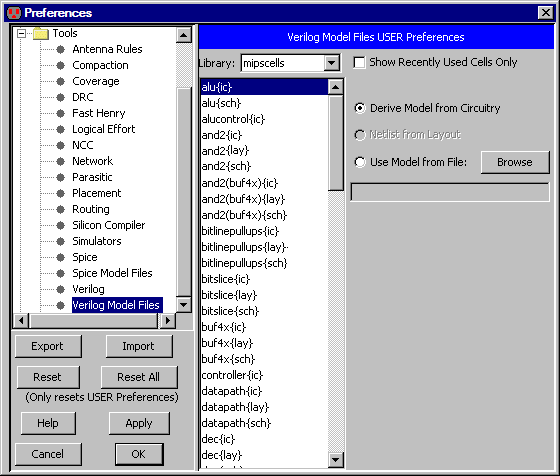
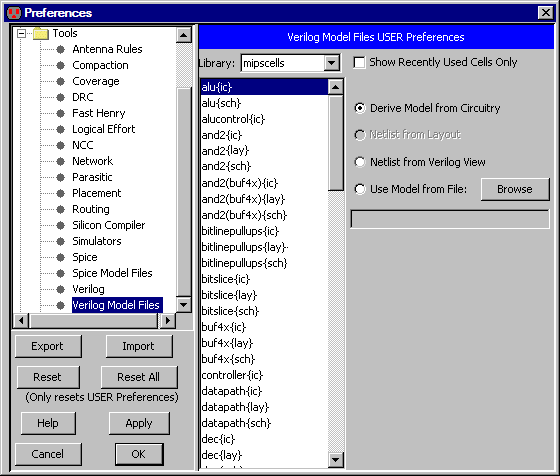
Apply maven changes to the trunk
git-svn-id: https://svn.java.net/svn/electric~svn/trunk@12282 b64ed6c1-75a8-e629-b1da-d0dae74a743a

Changed region(s): [[0.6071, 0.3235, 1.0, 0.4412], [0.6071, 0.4412, 0.6375, 0.4706]]

diff --git a/srcj/com/sun/electric/tool/user/help/helphtml/chap09-04-03.html b/srcj/com/sun/electric/tool/user/help/helphtml/chap09-04-03.html
@@ -210,12 +210,20 @@ The following variables are available to use in the program name and arguments:
 <!-- NEED 5in -->
 Another set of controls can be used is the Spice Model Files Preferences
 (in menu <B>File / Preferences...</B>, "Tools" section, "Spice Model Files" tab).
-This dialog allows you to specify a disk file of Spice cards that will be used to describe any cell.
-Instead of the cell subcircuit, the specified disk file is "included" in the deck.
+This dialog allows you to control how each cell is represented in the Spice deck.
 <P>
 <CENTER><IMG SRC="fig09-11.png" ALT="Figure 9.11"></CENTER>
 <P>
-The same function can be done by using the <B>Set Netlist Cell From File</B> command
+The default is to construct the Spice from the actual cell contents.
+If there is an equivalent layout cell, it can be used (instead of the schematic).
+You can also choose to use the "Verilog" view, which contains Verilog text for that cell
+(it will be converted to Spice).
+Finally, you can request that an external model file be used.
+Note that in the case of external model files,
+the specified disk file is referenced by adding "include" lines in the deck.
+These choices allow you to create your own definitions in situations where the derived Spice would be too complex or otherwise incorrect.
+<P>
+Another way to change the Spice representation of a cell is to use the <B>Set Netlist Cell From File</B> command
 (in menu <B>Tools / Simulation (Spice)</B>).
 This places a piece of text in the cell, which you must edit to be the path to a disk file.
 That file will then be included in the Spice deck instead of the actual subcircuit of the cell.

diff --git a/srcj/com/sun/electric/tool/user/help/helphtml/chap09-04-02.html b/srcj/com/sun/electric/tool/user/help/helphtml/chap09-04-02.html
@@ -79,12 +79,15 @@ This preserves the hierarchical structure of the circuit, but creates duplicate 
 <P>
 A final set of Verilog controls can be found in the Verilog Model Files Preferences
 (in menu <B>File / Preferences...</B>, "Tools" section, "Verilog Model Files" tab).
-The Verilog Model Files Preferences dialog lets you attach disk files with Verilog code to any cell in the library.
+The Verilog Model Files Preferences dialog lets you control how each cell is represented in the Verilog.
 <P>
 <!-- NEED 5in -->
 <TABLE><TR><TD VALIGN=TOP>
-Once attached, the generated Verilog will use the contents of that file instead of examining the cell contents.
-This allows you to create your own definitions in situations where the derived Verilog would be too complex or otherwise incorrect.
+The default is to contstruct the Verilog from the actual cell contents.
+If there is an equivalent layout cell, it can be used (instead of the schematic).
+You can also choose to use the "Verilog" view, which contains Verilog text for that cell.
+Finally, you can request that an external model file be used.
+These choices allow you to create your own definitions in situations where the derived Verilog would be too complex or otherwise incorrect.
 </TD><TD><CENTER><IMG SRC="fig09-39.png" ALT="Figure 9.39"></CENTER></TD></TR></TABLE>
 
 <!-- TRAILER -->

diff --git a/srcj/com/sun/electric/tool/user/help/helphtml/chap04-11.html b/srcj/com/sun/electric/tool/user/help/helphtml/chap04-11.html
@@ -89,9 +89,14 @@ To see the individual signal that make up a bus, double-click the bus signal
 (and double-click it again to remove the individual signals).
 </TD><TD><CENTER><IMG SRC="fig04-25.png" ALT="Figure 4.25"></CENTER></TD></TR></TABLE>
 <P>
-You can add signals to a panel by double-clicking on the name in the "SIGNALS" area.
-The signals will be added to the current panel.
+You can see new signals by double-clicking on the name in the "SIGNALS" area.
+For digital simulations, a new panel will be created for that signal;
+for analog simulations, the signal will be added to the current panel.
 You can also add signals to a panel by dragging the text onto the panel.
+Signal names in panels can be renamed by double-clicking on their text
+(this does not rename the actual signal in Electric:
+it merely assigns an "alias" name to the signal in the waveform window,
+which is useful for documentation).
 <P>
 If the layout or schematics cell that produced the simulation is being displayed in another window,
 and a network is selected in that window,

diff --git a/srcj/com/sun/electric/tool/user/help/helphtml/chap01-05.html b/srcj/com/sun/electric/tool/user/help/helphtml/chap01-05.html
@@ -1,7 +1,5 @@
 <!-- HEADER 1-5: Plug-Ins -->
 
-<!-- COMMAND Help/User's Manual (Russian)... -->
-
 Electric plug-ins are additional pieces of code that can be downloaded separately
 to enhance the system's functionality.
 Currently, these plug-ins are available:
@@ -47,12 +45,6 @@ The Java Media Framework is available from <A HREF="http://www.sun.com">Sun Micr
 (this is not a plugin: it is an enhancement to your Java installation).
 The animation code is available from <A HREF="http://www.staticfreesoft.com">Static Free Software</A> at
 <A HREF="http://www.staticfreesoft.com/electricJMF-8.11.jar">www.staticfreesoft.com/electricJMF-8.11.jar</A>.
-</LI>
-
-<LI><B>Russian User's Manual</B>
-An earlier version of the user's manual (8.02) has been translated into Russian.
-This manual is available from <A HREF="http://www.staticfreesoft.com">Static Free Software</A> at
-<A HREF="http://www.staticfreesoft.com/electricRussianManual-8.11.jar">www.staticfreesoft.com/electricRussianManual-8.11.jar</A>.
 </LI>
 
 </UL>

diff --git a/srcj/com/sun/electric/tool/user/help/helphtml/chap06-08-04.html b/srcj/com/sun/electric/tool/user/help/helphtml/chap06-08-04.html
@@ -24,6 +24,9 @@ this field.
 You can also use the <B>Increase All Text Size</B>
 and <B>Decrease All Text Size</B> commands (in menu <B>Edit / Text</B>)
 to change this value, and alter the size of all displayed text.
+<P>
+The "Show temporary node names" checkbox requests that unnamed nodes
+show their temporary names (for more on node names, see <A HREF="chap02-04-02.html#chap02-04-02">Section 2-4-2</A>).
 </TD><TD><CENTER><IMG SRC="fig06-08.png" ALT="Figure 6.8"></CENTER></TD></TR></TABLE>
 <!-- NEED 4in -->
 <P>

diff --git a/srcj/com/sun/electric/tool/user/help/ManualViewer.java b/srcj/com/sun/electric/tool/user/help/ManualViewer.java
@@ -144,7 +144,7 @@ public class ManualViewer extends EModelessDialog
 		boolean newAtLevel;
 	};
 
-	private Class htmlBaseClass;
+	private Class<?> htmlBaseClass;
 	private String htmlDirectory;
 	private JScrollPane rightHalf;
 	private JEditorPane editorPane;
@@ -162,7 +162,7 @@ public class ManualViewer extends EModelessDialog
 	private List<Object> history = new ArrayList<Object>();
 	private static ManualViewer theManual = null;
 
-    private static void setManualViewer(String preference, Class baseClass, String htmlDir, boolean setVisible)
+    private static void setManualViewer(String preference, Class<?> baseClass, String htmlDir, boolean setVisible)
     {
         if (theManual == null)
         {
@@ -350,7 +350,7 @@ public class ManualViewer extends EModelessDialog
 	 * Create a new user's manual dialog.
 	 * @param parent
 	 */
-	private ManualViewer(Frame parent, String preference, Class baseClass, String htmlDir) throws Exception
+	private ManualViewer(Frame parent, String preference, Class<?> baseClass, String htmlDir) throws Exception
 	{
 		super(parent);
 		htmlBaseClass = baseClass;
@@ -473,11 +473,11 @@ public class ManualViewer extends EModelessDialog
 			topPath = manualTree.getPathForRow(1);
 			manualTree.expandPath(topPath);
 			manualTree.setSelectionPath(topPath);
-		} else
-		{
-			TreePath tp = new TreePath(thisNode.getPath());
-			manualTree.scrollPathToVisible(tp);
-			manualTree.setSelectionPath(tp);
+//		} else
+//		{
+//			TreePath tp = new TreePath(thisNode.getPath());
+//			manualTree.scrollPathToVisible(tp);
+//			manualTree.setSelectionPath(tp);
 		}
 		// load the title page of the manual
 		loadPage(currentIndex, null);
@@ -1428,6 +1428,26 @@ public class ManualViewer extends EModelessDialog
 					System.out.println("  but did save: " + fileName);
 					return;
 				}
+			} else
+			{
+				// another way to find the original file (using Maven file structures)
+				binPos = fileName.indexOf("/target/classes/");
+				if (binPos >= 0)
+				{
+					String otherFileName = fileName.substring(0, binPos) + "/src/main/resources" + fileName.substring(binPos+15);
+					try
+					{
+						PrintWriter printWriter = new PrintWriter(new BufferedWriter(new FileWriter(otherFileName)));
+						printWriter.print(textArea.getText());
+						printWriter.close();
+						System.out.println("Also saved to "+otherFileName);
+					} catch (IOException e)
+					{
+						System.out.println("Could not also save file: " + otherFileName);
+						System.out.println("  but did save: " + fileName);
+						return;
+					}
+				}
 			}
 
 			setVisible(false);
@@ -1485,7 +1505,7 @@ public class ManualViewer extends EModelessDialog
 	}
 
 	/**
-	 * Initialize list of all ToolTips and initilize components
+	 * Initialize list of all ToolTips and initialize components
 	 */
 	private void init()
 	{
